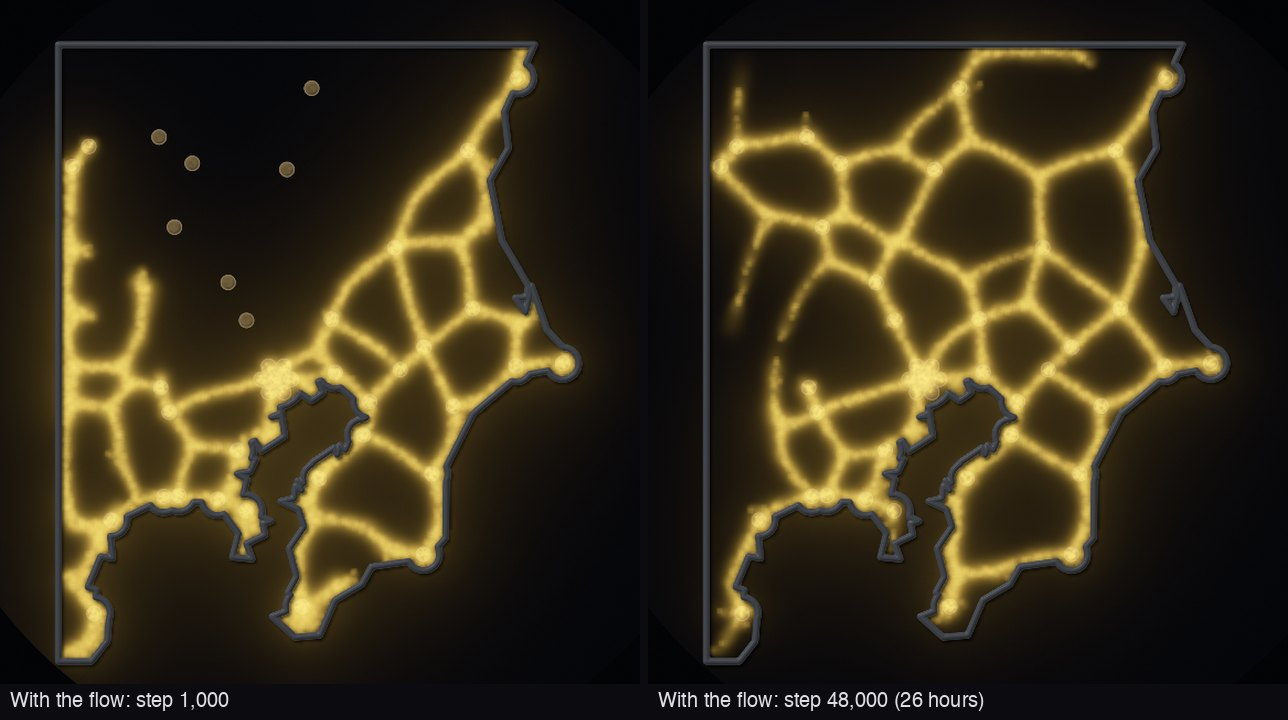
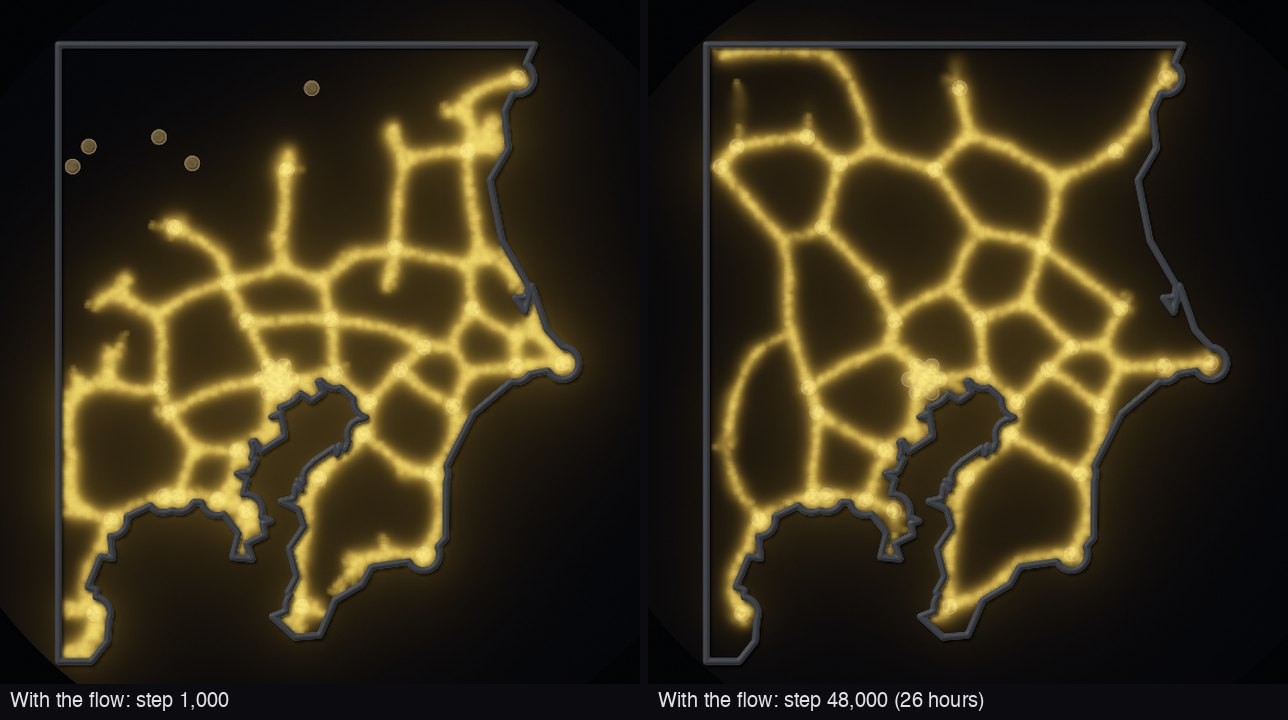
Set the Tokyo scene to flow strength 1.4, and test the rules that bound the pressure
The Tokyo scene was measured with a flow strength of 1, 1.4 and 2 over ten
seeds each (ADR 0029). With 1.4 the total length of the network is that of the
organism of Tero et al. (2010): 1.77 against 1.75 times the minimum spanning
tree. The scene had 2.

New tests for the rules that keep the pressure bounded: a food stops at its
pressure limit when no tube joins it to another food, cells without a tube are
part of the comparison with the CPU copy, and the CPU copy stays bounded in
the case of the first solver fault. Each of 19 wrong rules, one at a time in
WGSL and in GLSL, fails at least one test.

diff --git a/src/engine/flow.gpu.test.ts b/src/engine/flow.gpu.test.ts
@@ -73,9 +73,12 @@ describe.each(Object.entries(BACKENDS))('the flow in the tubes on %s', (_kind, c
     const sites = flowSites(centres, w, h);
     const grid: FlowGrid = { width: w, height: h, boundary: 'box', env: await sim.readEnv() };
     let fields = flowStart(grid, FLOW.fresh);
-    // Every cell holds a tube from the start, so both foods give or take from the first step on. The memory adapts
-    // from the second step on: a step reads which sites gave or took in the step before.
-    for (let c = 0; c < w * h; c++) fields.memory[c * 4 + 1] = 1;
+    // Every cell but those of a block holds a tube from the start, so both foods give or take from the first step
+    // on. The memory adapts from the second step on: a step reads which sites gave or took in the step before. The
+    // cells of the block hold no tube: they take part in the pressure iteration only, with the ghost conductivity
+    // and without the momentum (ADR 0029, decision 6).
+    const bare = (c: number) => c % w >= 28 && Math.floor(c / w) < 18;
+    for (let c = 0; c < w * h; c++) fields.memory[c * 4 + 1] = bare(c) ? 0 : 1;
     sim.writeFlow(fields.memory);
     for (let step = 0; step < 6; step++) {
       sim.run(1);
@@ -100,6 +103,13 @@ describe.each(Object.entries(BACKENDS))('the flow in the tubes on %s', (_kind, c
       // The roles lie on the two centre cells, and nowhere else.
       const roles = [...memory].flatMap((v, i) => (i % 4 === 3 && v !== 0 ? [(i - 3) / 4] : []));
       expect(roles).toEqual([8 * w + 8, 30 * w + 40]);
+      // At the end cells of the block still conduct nothing, and they hold a pressure: that of the tubes beside
+      // them.
+      if (step < 5) continue;
+      let ghosts = 0;
+      for (let c = 0; c < w * h; c++)
+        if (bare(c) && memory[c * 4 + 2] === 0 && Math.abs(pressure[c * 4] ?? 0) > 0.01 * top) ghosts++;
+      expect(ghosts, 'cells without a tube that hold a pressure').toBeGreaterThan(100);
     }
   }, 120_000);
 
@@ -256,6 +266,36 @@ describe.each(Object.entries(BACKENDS))('the flow in the tubes on %s', (_kind, c
     expect(span).toBeGreaterThan(1);
     const top = pressure.reduce((a, v) => Math.max(a, Math.abs(v)), 0);
     expect(top).toBeLessThan(2 * span);
+  }, 240_000);
+
+  it('stops a food at its pressure limit when no tube joins it to the other food, so both tubes starve', async () => {
+    // Each food holds a piece of tube of its own, and open ground lies between the two.
+    const { w, memory, pressure, i0, flux } = await tubes(
+      [
+        [4, 8, 4, 12],
+        [35, 8, 35, 12],
+      ],
+      600,
+    );
+    const [a, b] = [12 * w + 4, 12 * w + 35];
+    // Both foods are covered, so one gives and the other takes.
+    expect(roleSigns(memory[a * 4 + 3] ?? 0)).toEqual([1, 1, 1, 1]);
+    expect(roleSigns(memory[b * 4 + 3] ?? 0)).toEqual([-1, -1, -1, -1]);
+    // The pressure between them is almost twice the limit of a site and no more. Without the limit it is 20 times
+    // as high here, and the whole flux I0 runs through the open ground (CPU copy, 2026-11-13).
+    const limit = FLOW.head * i0;
+    for (let k = 0; k < 4; k++) {
+      const span = (pressure[a * 4 + k] ?? 0) - (pressure[b * 4 + k] ?? 0);
+      expect(span).toBeGreaterThan(1.9 * limit);
+      expect(span).toBeLessThanOrEqual(2 * limit);
+    }
+    const top = pressure.reduce((m, v) => Math.max(m, Math.abs(v)), 0);
+    expect(top).toBeLessThanOrEqual(2 * limit);
+    // So almost no flux passes the two pieces of tube, and their memory falls below the fresh memory: they starve.
+    for (const c of [9 * w + 4, 11 * w + 4, 9 * w + 35, 11 * w + 35]) {
+      expect(flux[c * 4] ?? 0).toBeLessThan(0.05 * i0);
+      expect(memory[c * 4] ?? 0).toBeLessThan(0.3 * FLOW.fresh);
+    }
   }, 240_000);
 
   it('sends more flux through the shorter of two tubes, and gives it the higher memory', async () => {

diff --git a/src/engine/flow.test.ts b/src/engine/flow.test.ts
@@ -15,7 +15,7 @@ import {
   packFlow,
   STEPS_PER_MINUTE,
 } from './flow';
-import { roleSigns } from './flow-reference';
+import { flowStart, flowStep, roleSigns, type FlowGrid } from './flow-reference';
 
 describe('flowOn', () => {
   it('runs the flow only with the switch on and in the extended model', () => {
@@ -278,4 +278,54 @@ describe('packFlow', () => {
     expect(none[15]).toBe(0);
     expect(none.subarray(28).every((v) => v === 0)).toBe(true);
   });
+});
+
+describe('the pressure of the CPU copy of the passes (ADR 0029, decision 6)', () => {
+  // The case in which the first version of the app let the pressure run away. A mesh of tubes grows out from a food
+  // as a disc and reaches three more foods, and its cells flicker: in each step a cell of the disc changes between
+  // tube and no tube with a chance of 5 %, so cells cross the level of the tube body again and again, the centre
+  // cells of the foods too. With the momentum of the iteration on every cell this run reaches a pressure of 8 · 10⁸
+  // (measured 2026-11-13). With the rule that only a cell that conducts takes the momentum, the largest pressure is
+  // 433: a food that gives into a piece of tube without a way out, below the pressure limit of a site.
+  // flow.gpu.test.ts holds both backends to this copy, on cells with a tube and on cells without one.
+  it('stays bounded while a mesh of tubes grows over the foods and flickers', () => {
+    const n = 40;
+    const env = new Uint8Array(n * n * 4);
+    const foods: [number, number][] = [
+      [20.5, 20.5],
+      [5.5, 20.5],
+      [32.5, 29.5],
+      [23.5, 2.5],
+    ];
+    for (const [x, y] of foods)
+      for (let dy = -1; dy <= 1; dy++)
+        for (let dx = -1; dx <= 1; dx++) env[((Math.floor(y) + dy) * n + Math.floor(x) + dx) * 4 + 1] = 255;
+    const grid: FlowGrid = { width: n, height: n, boundary: 'box', env };
+    const settings = { ...defaultSettings(), flowStrength: 1, seed: 1 };
+    const u = new Float32Array(packFlow(settings, flowSites(foods, n, n)));
+    let fields = flowStart(grid, FLOW.fresh);
+    let rng = 12345;
+    let top = 0;
+    let most = 0;
+    for (let step = 0; step < 150; step++) {
+      // The disc grows by a quarter of a cell per step; its tubes lie 6 cells apart.
+      const radius = 3 + step * 0.25;
+      const trail = new Float32Array(n * n * 4);
+      for (let y = 0; y < n; y++)
+        for (let x = 0; x < n; x++) {
+          if (Math.hypot(x - 20, y - 20) > radius) continue;
+          let tube = x % 6 === 2 || y % 6 === 2;
+          rng = (Math.imul(rng, 1664525) + 1013904223) >>> 0;
+          if (rng / 2 ** 32 < 0.05) tube = !tube;
+          if (tube) trail[(y * n + x) * 4] = 10;
+        }
+      fields = flowStep(grid, u, fields, trail, step, settings.seed);
+      top = fields.pressure.reduce((a, v) => Math.max(a, Math.abs(v)), top);
+      most = Math.max(most, fields.memory.filter((v, i) => i % 4 === 3 && v !== 0).length);
+    }
+    // All four foods gave or took in some step, and a pressure built up: the run is the case above.
+    expect(most).toBe(4);
+    expect(top).toBeGreaterThan(5);
+    expect(top).toBeLessThan(FLOW.head * settings.flowStrength);
+  }, 60_000);
 });

diff --git a/src/model/presets.ts b/src/model/presets.ts
@@ -481,7 +481,7 @@ PRESETS.push(
     about:
       'In 2010, Atsushi Tero and colleagues put oat flakes on a plate where the cities around Tokyo lie, with the coast as its edge. A slime mold grew out from Tokyo and joined all flakes within 26 hours. Its network was about as short, as fast and as robust as the real railway. Here, Jones’ agents grow from Tokyo, and the flow in the tubes decides which tubes stay.',
     strainRoles: ['Jones’ foraging agent, drawn to food'],
-    why: 'Growth and shrinkage with Jones’ values of 2011 let the colony grow from Tokyo. Flow in the tubes is on: each food gives or takes a flux of 2, and Tokyo is seven foods, as in the model of the paper. The map has 512 × 512 cells on every screen, so north stays up. Sensor distance 7 and food weight 0.03 are the Maze’s. Stations: Wikidata. Coast: © OpenStreetMap contributors.',
+    why: 'Growth and shrinkage with Jones’ values of 2011 let the colony grow from Tokyo. Flow in the tubes is on with a strength of 1.4: the network is then as long as the organism’s. Tokyo is seven foods, as in the model of the paper. The map has 512 × 512 cells on every screen, so north stays up. Sensor distance 7 and food weight 0.03 are the Maze’s. Stations: Wikidata. Coast: © OpenStreetMap contributors.',
     settings: () =>
       jones(
         { sensorAngle: 22.5, rotationAngle: 45, sensorOffset: 7 },
@@ -495,9 +495,10 @@ PRESETS.push(
           foodStrength: 0.03,
           growth: true,
           flow: true,
-          // The flux of the model of Tero et al. 2010 (Fig. 4: I0 = 2), and the value whose network has the measures
-          // of the organism (ADR 0029).
-          flowStrength: 2,
+          // Measured with 1, 1.4 and 2 over ten seeds each (ADR 0029): with 1.4 the total length of the network is
+          // that of the organism (1.77 against 1.75 times the minimum spanning tree), and the food sources at the
+          // edge of the map keep their tubes. The I0 = 2 of the model of Tero et al. 2010 (Fig. 4) has another unit.
+          flowStrength: 1.4,
         },
       ),
     // The start layout 'food' places the colony on the first food: the station of Tokyo.

diff --git a/tests/e2e/flow.spec.ts b/tests/e2e/flow.spec.ts
@@ -78,7 +78,7 @@ for (const viewport of [
       const e = globalThis.physarum;
       return e && { size: [e.sim.width, e.sim.height], lattice: e.settings.lattice, flux: e.settings.flowStrength };
     });
-    expect(state).toEqual({ size: [512, 512], lattice: [512, 512], flux: 2 });
+    expect(state).toEqual({ size: [512, 512], lattice: [512, 512], flux: 1.4 });
     const card = page.getByRole('region', { name: 'Scene', exact: true });
     await expect(card.getByRole('heading', { name: 'Tokyo rail network' })).toBeVisible();
     await expect(card.getByRole('button', { name: 'Tero et al. 2010, Fig. 1' })).toBeVisible();

diff --git a/docs/adr/0029-flow-in-the-tubes.md b/docs/adr/0029-flow-in-the-tubes.md
@@ -266,8 +266,9 @@ help it: on the fixed network it had not carried the flux to the sink after 150,
    chance 0.02 · h² / (D² + h²) per step, h = 0.01. A dead agent draws one random cell per step; if
    the cell is open, holds a tube and has D above 0.5, the agent comes to life there with the chance
    0.2 · (D − 0.5) / 0.5. With the rule of one agent per cell the cell must be empty, and the agent
-   claims it as a move does (ADR 0008). So a tube that carries flux fills up and gets wider, until
-   the flux per cell falls. Rejected, with the prototype: (a) a deposit scaled by the flow memory
+   claims it as a move does (ADR 0008). In a step in which a tool places agents (inoculate or cut,
+   ADR 0023), the flow brings none to life: an agent has one placement per step. So a tube that
+   carries flux fills up and gets wider, until the flux per cell falls. Rejected, with the prototype: (a) a deposit scaled by the flow memory
    alone: the dead ends stay, because Jones' agents steer by the difference between their sensors
    and not by the amount of trail; (b) starvation without births: the tube of the route dies out
    too, more slowly.
@@ -313,12 +314,17 @@ help it: on the fixed network it had not carried the flux to the sink after 150,
     along the west, north and south edges of the map. The protocol is the first one of the paper:
     a colony of about 50 agents starts on the food at Tokyo station (start layout "At the first
     food") and grows with Jones' rule of 2011 (ADR 0025) as a mesh of tubes over the land; the
-    flow decides which tubes stay. The scene runs on a square lattice of 512 × 512 cells in a dish, so north is
-    up on every screen (ADR 0024, decision 4; a grid shaped like a tall screen would turn the
-    frame). Its flow strength is 2, the I0 of the model of the paper (Fig. 4), and the value whose
-    network has the measures of the organism (results below). Where the simplified coast came within 5.4 km of a
-    city, it follows a circle around the city on the seaward side (9.4 km around Tokyo, for its
-    seven food sources): the simplified line passed over harbour cities.
+    flow decides which tubes stay. The scene runs on a square lattice of 512 × 512 cells in a dish,
+    so north is up on every screen (ADR 0024, decision 4; a grid shaped like a tall screen would
+    turn the frame). Where the simplified coast came within 5.4 km of a city, it follows a circle
+    around the city on the seaward side (9.4 km around Tokyo, for its seven food sources): the
+    simplified line passed over harbour cities.
+
+    The flow strength of the scene is 1.4. Reason: the measurement with 1, 1.4 and 2 over ten seeds
+    each (results below). With 1.4 the total length of the network is that of the organism, every
+    measure lies within one standard deviation of the paper, and the food sources at the edge of
+    the map keep their tubes. The model of the paper uses I0 = 2 (Fig. 4), but the flux of this app
+    has another unit (Consequences), so that value does not carry over.
 
 13. **The flow is in the source of a pass only while it is on.** WGSL has no preprocessor, and an
     override constant leaves its code and its bindings in the pass. So the lines of the flow in
@@ -341,6 +347,11 @@ help it: on the fixed network it had not carried the flux to the sink after 150,
 
 All numbers are from the real engine with the final rules (2026-11-13, M3 Pro, Chromium with
 Metal), measured on dumps of the trail with the scripts of the prototype.
+
+Pictures from the app's own renderer (`npm run gallery`, seed 7): `docs/images/maze-flow.jpg` is
+the Maze at step 5,000 without and with the flow, `docs/images/tokyo-flow.jpg` the Tokyo scene at
+step 12,000 without and with the flow, and `docs/images/tokyo-time.jpg` the Tokyo scene at step
+1,000 and at step 48,000.
 
 ### The Maze (flux 8)
 
@@ -374,59 +385,75 @@ more than 5 % of I0 is 40 % off at step 500, while the pressure still builds up 
 
 ### The Tokyo rail network
 
-The scene as it loads (flux 2), ten seeds on WebGPU, measured as in the paper (p. 440) on the 33
+The scene as it loads (flux 1.4), ten seeds on WebGPU, measured as in the paper (p. 440) on the 33
 food sources of its Fig. 2: the trail above 1.5 is the network, thinned to lines; a link is a line
 between two junctions or food sources. TL, MD and FT are over the values of the minimum spanning
 tree. Median and range over the seeds.
 
-| Step   | Model time | All 33 joined | All 36 joined | Links         | TL                  | MD                  | FT                  |
-| ------ | ---------- | ------------- | ------------- | ------------- | ------------------- | ------------------- | ------------------- |
-| 1,000  | 33 min     | 6 of 10       | 2 of 10       | 61 (34 to 73) | 1.98 (1.58 to 2.42) | 0.88 (0.84 to 0.98) | 0.92 (0.74 to 0.95) |
-| 2,000  | 1.1 h      | 10 of 10      | 10 of 10      | 86 (75 to 92) | 2.79 (2.64 to 2.95) | 0.83 (0.81 to 0.90) | 0.98 (0.93 to 0.99) |
-| 4,000  | 2.2 h      | 10 of 10      | 10 of 10      | 72 (62 to 89) | 2.42 (2.29 to 2.63) | 0.82 (0.81 to 0.91) | 0.97 (0.89 to 0.99) |
-| 8,000  | 4.4 h      | 9 of 10       | 9 of 10       | 70 (62 to 78) | 2.24 (2.11 to 2.55) | 0.81 (0.80 to 0.87) | 0.96 (0.92 to 0.99) |
-| 12,000 | 6.7 h      | 10 of 10      | 10 of 10      | 62 (52 to 75) | 2.00 (1.82 to 2.13) | 0.82 (0.81 to 0.91) | 0.93 (0.90 to 0.96) |
-| 24,000 | 13.3 h     | 10 of 10      | 9 of 10       | 56 (53 to 60) | 1.94 (1.81 to 2.06) | 0.81 (0.80 to 0.89) | 0.93 (0.88 to 0.95) |
-| 48,000 | 26.7 h     | 10 of 10      | 10 of 10      | 56 (51 to 65) | 1.94 (1.76 to 2.08) | 0.81 (0.80 to 0.83) | 0.92 (0.91 to 0.96) |
+| Step   | Model time | All 33 joined | All 36 joined | Links           | TL                  | MD                  | FT                  |
+| ------ | ---------- | ------------- | ------------- | --------------- | ------------------- | ------------------- | ------------------- |
+| 2,000  | 1.1 h      | 10 of 10      | 10 of 10      | 88 (78 to 94)   | 2.81 (2.64 to 2.96) | 0.82 (0.81 to 0.84) | 0.98 (0.94 to 0.99) |
+| 4,000  | 2.2 h      | 10 of 10      | 9 of 10       | 73.5 (68 to 85) | 2.43 (2.27 to 2.63) | 0.82 (0.81 to 0.83) | 0.97 (0.93 to 0.99) |
+| 8,000  | 4.4 h      | 10 of 10      | 9 of 10       | 59.5 (55 to 81) | 2.06 (1.82 to 2.29) | 0.82 (0.81 to 0.91) | 0.94 (0.91 to 0.97) |
+| 12,000 | 6.7 h      | 10 of 10      | 10 of 10      | 57 (49 to 63)   | 1.87 (1.76 to 2.01) | 0.82 (0.81 to 0.90) | 0.92 (0.84 to 0.95) |
+| 16,000 | 8.9 h      | 10 of 10      | 10 of 10      | 60.5 (51 to 71) | 1.91 (1.58 to 2.28) | 0.82 (0.81 to 0.84) | 0.93 (0.84 to 0.96) |
+| 24,000 | 13.3 h     | 10 of 10      | 8 of 10       | 50.5 (46 to 61) | 1.71 (1.59 to 2.00) | 0.82 (0.82 to 0.90) | 0.90 (0.80 to 0.95) |
+| 32,000 | 17.8 h     | 10 of 10      | 10 of 10      | 53.5 (50 to 58) | 1.81 (1.61 to 1.95) | 0.83 (0.81 to 0.93) | 0.91 (0.84 to 0.95) |
+| 40,000 | 22.2 h     | 10 of 10      | 10 of 10      | 52 (49 to 56)   | 1.72 (1.66 to 1.93) | 0.83 (0.82 to 0.91) | 0.90 (0.82 to 0.92) |
+| 48,000 | 26.7 h     | 10 of 10      | 10 of 10      | 51.5 (46 to 55) | 1.79 (1.56 to 1.96) | 0.82 (0.81 to 0.90) | 0.90 (0.82 to 0.95) |
 
-At step 48,000, the end of the experiment in model time: TL 1.94 ± 0.10, MD 0.81 ± 0.01 and FT
-0.93 ± 0.02 (mean and standard deviation), and FT over TL is 0.48. The organism (p. 440): TL
+At step 48,000, the end of the experiment in model time: TL 1.77 ± 0.14, MD 0.83 ± 0.03 and FT
+0.90 ± 0.04 (mean and standard deviation), and FT over TL is 0.51. The organism (p. 440): TL
 1.75 ± 0.30, MD 0.85 ± 0.04, FT 0.80 ± 0.13 without light and 0.86 ± 0.04 with light on the
 mountains, and FT over TL about 0.5. The check of the specification of 2026-11-11 (TL from 1.45 to
-2.05 and MD from 0.77 to 0.93 in 7 of 10 seeds, FT at least 0.66) holds in 9 of 10 seeds at step
-24,000 and at step 48,000, and FT in 10 of 10. So the network of the scene is longer, more direct
-and more fault tolerant than the organism's. TL is 0.6, MD 1.0 and FT 1.0 standard deviations of
-the paper from the paper's mean without light; against the networks with light, FT is 1.7 standard
-deviations above. Where a table row has fewer than 10 of 10, one food source had no tube above the
-level of the measure at that step and had one again at the next step.
+2.05 and MD from 0.77 to 0.93 in 7 of 10 seeds, FT at least 0.66) holds in 10 of 10 seeds at step
+24,000 and at step 48,000, and FT in 10 of 10. So the network of the scene is as long as the organism's, and it is a
+little more direct and more fault tolerant: MD is 0.5 and FT 0.7 standard deviations of the paper
+from the paper's mean without light (FT 0.9 above the mean with light).
+
+All 33 food sources of Fig. 2 are joined in every sample. Where a row has fewer than 10 of 10 for
+all 36, one of the three food sources at the edge of the map (those that only Fig. 1 has) had no
+tube above the level of the measure in that sample, and it had one again in the next sample.
 
 The time course: the colony grows out from Tokyo as a mesh of tubes, reaches all 36 food sources
 by step 2,000 and has its most links there. Then the tubes without a flux between food sources
 starve, and the network thins, fast to step 12,000 and slowly after it. The organism covers the
-land in 11 to 16 h and has its network at 26 h (Fig. 1). The scene is at that stage after about 1 h
-and 7 h of model time: Jones' growth rule has no speed of its own to set, and it is about ten
-times as fast as the organism against the time of the adaptation.
+land in 11 to 16 h and has its network at 26 h (Fig. 1). The scene is at these stages after about
+1 h and after 7 to 13 h of model time: Jones' growth rule has no speed of its own to set, and it is
+about ten times as fast as the organism against the time of the adaptation.
 
-Other flow strengths (three seeds each to step 24,000; flux 2: the ten seeds above):
+Three flow strengths, ten seeds each on WebGPU to step 48,000. The measures are the mean and the
+standard deviation at step 48,000. "Samples" are the 8 measured steps from 4,000 to 48,000 of each
+seed, 80 in all.
 
-| Flux | Seeds, last step | All 33 joined | All 36 joined | TL                  | MD                  | FT                  |
-| ---- | ---------------- | ------------- | ------------- | ------------------- | ------------------- | ------------------- |
-| 1    | 10, 48,000       | 10 of 10      | 8 of 10       | 1.62 (1.50 to 1.77) | 0.84 (0.82 to 0.86) | 0.85 (0.80 to 0.92) |
-| 2    | 10, 48,000       | 10 of 10      | 10 of 10      | 1.94 (1.76 to 2.08) | 0.81 (0.80 to 0.83) | 0.92 (0.91 to 0.96) |
-| 4    | 3, 24,000        | 3 of 3        | 3 of 3        | 2.07 (1.91 to 2.27) | 0.81 (0.81 to 0.82) | 0.95                |
-| 8    | 3, 24,000        | 3 of 3        | 3 of 3        | 2.14 (2.11 to 2.42) | 0.82 (0.81 to 0.82) | 0.97 (0.92 to 0.99) |
+| Flux         | TL          | MD          | FT                         | All 36 joined at 48,000 | All 36 joined, samples | Check of the specification at 48,000 |
+| ------------ | ----------- | ----------- | -------------------------- | ----------------------- | ---------------------- | ------------------------------------ |
+| 1            | 1.64 ± 0.10 | 0.84 ± 0.01 | 0.86 ± 0.04                | 8 of 10                 | 70 of 80               | 10 of 10                             |
+| 1.4          | 1.77 ± 0.14 | 0.83 ± 0.03 | 0.90 ± 0.04                | 10 of 10                | 76 of 80               | 10 of 10                             |
+| 2            | 1.94 ± 0.10 | 0.81 ± 0.01 | 0.93 ± 0.02                | 10 of 10                | 75 of 80               | 9 of 10                              |
+| The organism | 1.75 ± 0.30 | 0.85 ± 0.04 | 0.80 ± 0.13 or 0.86 ± 0.04 | all                     |                        |                                      |
 
-More flux keeps more links, as in the model of the paper (supplement, Fig. S1). A flux of 1 gives
-the measures nearest to the organism's, each within half a standard deviation of the paper. But in
-2 of 10 seeds one of the three food sources at the edge of the map (those of Fig. 1 only) has lost
-its tube at step 48,000, and a food source that lost its tube does not get one again soon (decision
-7). With a flux of 2 all 36 are joined in 10 of 10 seeds. The scene uses 2: every food source
-joined counts more for a scene than a total length that is 0.3 nearer to the paper's mean. The
-owner can choose 1 (`TODO.md`).
+More flux keeps more links, as in the model of the paper (supplement, Fig. S1): with a flux of 4
+and of 8 (three seeds each, step 24,000) TL is 2.07 (1.91 to 2.27) and 2.14 (2.11 to 2.42), and FT
+is 0.95 and 0.97. With 1 and with 1.4 every measure lies within one standard deviation of the
+organism's. With 2 the network is longer (TL 0.6 standard deviations above), MD is one standard
+deviation off, and FT one (without light) to two (with light).
+
+One food source is without a tube above the level of the measure in 10 of 80 samples with 1, in 4
+with 1.4 and in 5 with 2. With 1 and with 1.4 it is always one of the three at the edge of the map;
+with 2 it is once one of the 33 of Fig. 2. No such gap is longer than two samples in a row (flux 1)
+or one sample (1.4 and 2). The reason for the difference: a tube that ends at a
+food source carries the flux I0 of that source. In a tube of one cell, f(I0) is 0.50 for a flux of
+1, 0.65 for 1.4 and 0.78 for 2, and dead agents come to life only where the flow memory is above
+0.5 (decision 8). So with a flux of 1 the tubes to the edge live from the growth rule alone.
+
+The scene uses 1.4: its total length is the organism's, and its food sources stay joined as with 2. A flux of 1 is a little nearer to the organism in MD and FT and 0.4 standard deviations
+shorter in TL; its tubes to the edge of the map are thinner.
 
 Without the flow (one seed) the mesh of Jones' growth rule stays: TL 2.70 to 2.88 and FT 0.96 to
-0.99 from step 2,000 to step 24,000, with 76 to 88 links. On WebGL2 (flux 2, two seeds) the scene
-gives TL 1.81 (1.72 to 1.90), MD 0.81 and FT 0.93 at step 24,000, as on WebGPU.
+0.99 from step 2,000 to step 24,000, with 76 to 88 links. On WebGL2 (two seeds) the scene
+gives TL 1.85 and 1.95, MD 0.81 and 0.82 and FT 0.92 and 0.87 at step 24,000, within the range of
+the ten seeds on WebGPU.
 
 ### With the flow off
 

diff --git a/TODO.md b/TODO.md
@@ -62,7 +62,7 @@ Plan: [docs/design.md](docs/design.md). Decisions: [docs/adr/](docs/adr/). Sourc
 - [ ] A growth count includes the agent itself, as the shrinkage count does (ADR 0024, decision 6), so Growth minimum 0 and 1 act the same; and a child gets a random heading, which Jones does not state (ADR 0025; owner decision)
 - [x] Flow in the tubes (owner decision 2026-11-12, ADR 0029): an option of the extended model, off by default, never in the Jones model. Tero's flux model on the grid cells (Tero, Kobayashi and Nakagaki 2007; Tero et al. 2010): every covered food gives or takes a flux, as many give as take, and a local solver follows the pressure with 16 passes per step. An agent on a cell that the flux passed by starves, a dead agent comes to life on a cell with much flux, and Jones' growth does not divide on a starved cell. Thirty steps are one minute of model time. With the switch off, every scene keeps its bytes (the default settings and the 16 scenes of `main`, 500 steps, WebGPU and WebGL2: the SHA-256 digests of agents, trail, scent and environment equal those of `main` in 34 of 34 runs). Tested against a CPU copy of the passes on both backends, and against an exact solution of Kirchhoff's law on dumps of the real engine (within about 5 % in a settled network)
 - [x] The Maze has the flow (ADR 0029): the dead ends fall below 10 % of the route's trail at step 1,500 and are empty by step 5,000, and one tube remains, 1.10 times as long as the shortest route at step 15,000 (10 of 10 seeds on WebGPU, 3 of 3 on WebGL2). Without the flow the dead ends hold 60 to 90 % of the route's trail at every step
-- [x] Tokyo rail network (Tero et al. 2010, Fig. 1; ADR 0024, ADR 0029): 36 food sources and the coast of the map, a colony that grows out from Tokyo, a square lattice of 512 × 512 cells so that north is up on every screen. All 36 food sources are joined from step 2,000 on. At step 48,000, the 26 hours of the experiment, the network has TL 1.94, MD 0.81 and FT 0.92 over the minimum spanning tree (10 seeds); the organism has 1.75 ± 0.30, 0.85 ± 0.04 and 0.80 to 0.86
+- [x] Tokyo rail network (Tero et al. 2010, Fig. 1; ADR 0024, ADR 0029): 36 food sources and the coast of the map, a colony that grows out from Tokyo, a square lattice of 512 × 512 cells so that north is up on every screen. The flow strength is 1.4, chosen by a measurement with 1, 1.4 and 2 over 10 seeds each. All 36 food sources are joined at step 2,000 and at step 48,000 in 10 of 10 seeds; in 4 of the 80 samples from step 4,000 on, one food source at the edge of the map is without a tube above the level of the measure. At step 48,000, the 26 hours of the experiment, the network has TL 1.77 ± 0.14, MD 0.83 ± 0.03 and FT 0.90 ± 0.04 over the minimum spanning tree; the organism has 1.75 ± 0.30, 0.85 ± 0.04 and 0.80 to 0.86
 - [ ] The flow costs about 2.0 ms per step on 512 × 320 cells and 2.9 ms on 512 × 512 (WebGPU, M3 Pro; 2.2 ms and 3.6 ms on WebGL2; ADR 0029), 11 to 14 ns per cell. A texture with the conductances of the four edges of each cell would let a pressure pass read 9 texels in place of 17; a first try showed no gain under load and is not measured on a quiet machine. Fewer passes cost accuracy (ADR 0029)
 - [ ] The Tokyo scene has no light on the mountains and lakes (the illuminated runs of Tero et al. 2010, Fig. 2) and no large food source outside the map; the map data for both is in the specification of 2026-11-11 (owner decision)
 - [ ] North stays up on the Tokyo scene on its lattice. A grid shaped like a tall screen, chosen in the panel, turns the map by 90°, as every scene (ADR 0019, ADR 0024 decision 4): keep, or give a scene a frame that never turns (owner decision)
